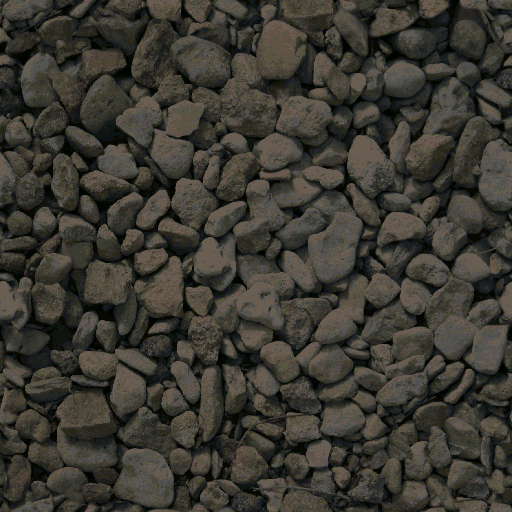
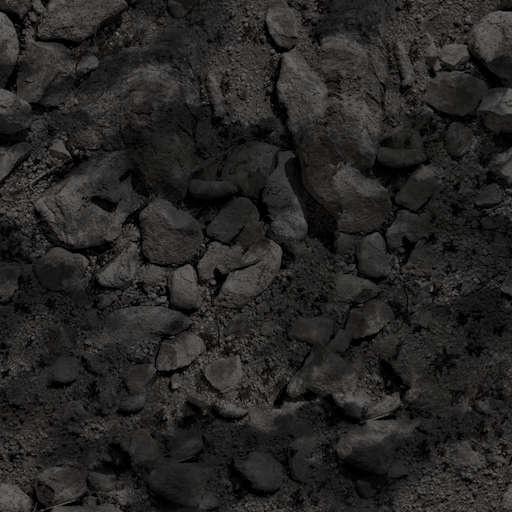
update bA for full th20
stage 4 to 7 bg asset swaps, alongside spellcard bgs & ending image. removed any translated text too

diff --git a/th20-betterAssets/files.js b/th20-betterAssets/files.js
@@ -7,14 +7,24 @@
 	"th20/background/stage03/st03b00.png": 3768440780,
 	"th20/background/stage03/st03c00.png": 3123529634,
 	"th20/background/stage03/st03d00.PNG": 2558922850,
-	"th20/background/stage06/st06a00.png": 1264700145,
-	"th20/bullet/bullet05.png": null,
-	"th20/bullet/bullet5.png": 3213878274,
+	"th20/background/stage04/st04a00.png": 2708611561,
+	"th20/background/stage04/st04b00.png": 8015449,
+	"th20/background/stage04b/st04a00.png": 2789939402,
+	"th20/background/stage04b/st04b00.png": 3863350999,
+	"th20/background/stage04c/st04a00.png": 742694070,
+	"th20/background/stage04c/st04b00.png": 3443669191,
+	"th20/background/stage04d/st04a00.png": 125362989,
+	"th20/background/stage04d/st04b00.png": 3432365974,
+	"th20/background/stage05/st05a00.png": 1537259372,
+	"th20/background/stage05/st05b00.png": 986655164,
+	"th20/background/stage05/st05c00.png": 316631337,
+	"th20/background/stage06/st04b00.png": 1304253459,
+	"th20/background/stage06/st06a00.png": 1686570564,
+	"th20/background/stage07/st05a00.png": 2990544675,
+	"th20/background/stage07/st05b00.png": 3971718222,
 	"th20/effect/eff_switchbg.png": 2832390116,
-	"th20/front/front00.PNG": 1362668156,
-	"th20/front/logo/st01logo.png": 1462986013,
-	"th20/front/logo/st02logo.png": 1145293682,
-	"th20/front/logo/st03logo.png": 3304495861,
+	"th20/ending/stbg00.png": 2567773642,
+	"th20/front/front00.png": 1984446454,
 	"th20/loading/sig1280.png": 2835888346,
 	"th20/stgenm/stage01/cardbg0.png": 3635074696,
 	"th20/stgenm/stage03/cdbg03a00.png": 2307152424,
@@ -28,7 +38,5 @@
 	"th20/stgenm/stage06/cdbg06c00.png": 3630751680,
 	"th20/stgenm/stage07/cdbg07a00.png": 3389436298,
 	"th20/stgenm/stage07/cdbg07b00.png": 1591912763,
-	"th20/title/title_bk00.png": 2800221905,
-	"th20/title/title_pl00c.png": 760161424,
-	"th20/title/title_pl01c.png": 2246719793
+	"th20/title/title_bk00.png": 2800221905
 }

diff --git a/th20-betterAssets/patch.js b/th20-betterAssets/patch.js
@@ -1,10 +1,10 @@
 {
 	"dependencies": [
-		"thpatch/lang_en"
+		"nmlgc/base_tsa"
 	],
 	"id": "th20-betterAssets",
 	"servers": [
 		"https://mirrors.thpatch.net/TeamEclecticAnthologists/th20-betterAssets/"
 	],
-	"title": "Asset replacement and enhancement patch for TH20 (No AI! Meant to be used with lang_en)"
+	"title": "Asset replacement and enhancement patch for TH20 (No AI!)"
 }
